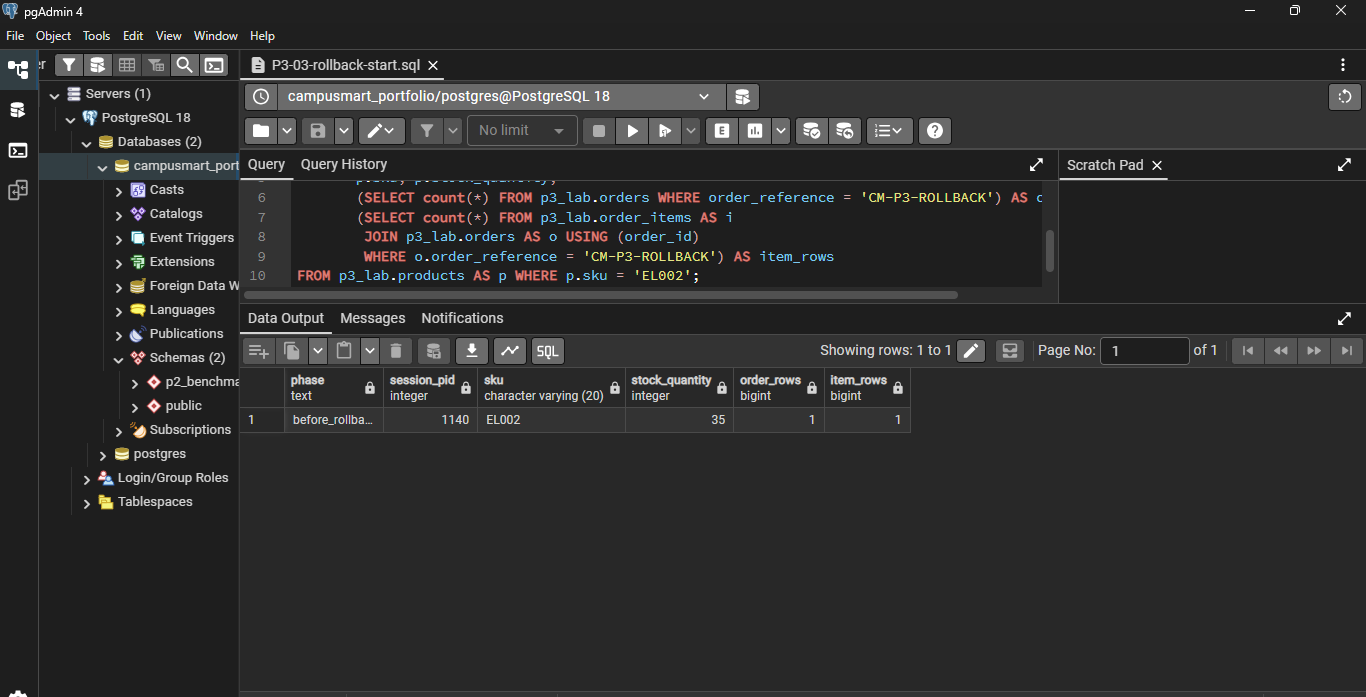
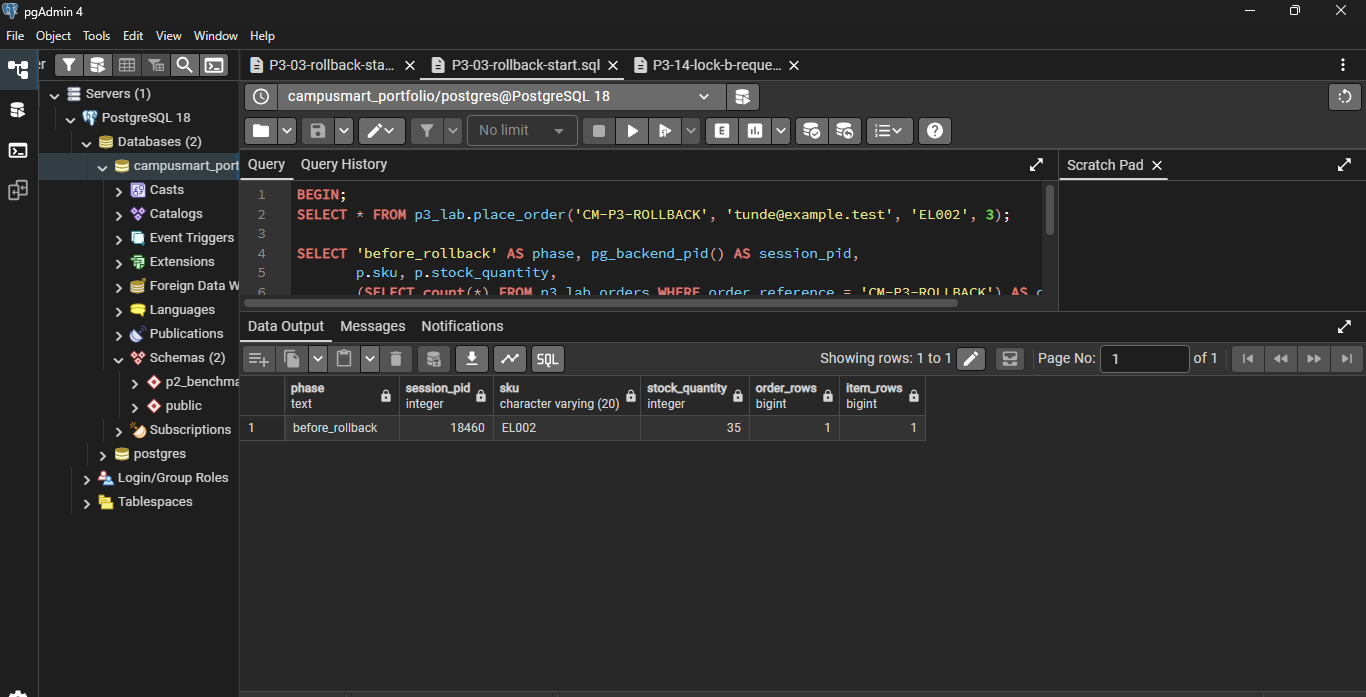
Replace rollback screenshots from the same session

Changed region(s): [[0.1537, 0.2712, 1.0, 0.6327], [0.1845, 0.0603, 0.5842, 0.1205]]

diff --git a/evidence/portfolio-3/screenshots/README.md b/evidence/portfolio-3/screenshots/README.md
@@ -1,3 +1,3 @@
 # Portfolio 3 screenshots
 
-Nineteen original pgAdmin 4 screenshots from the PostgreSQL 18.6 transaction and concurrency experiment. The [evidence index](../README.md) identifies each result and its corresponding CSV export. The rollback pair has different session PIDs; its verification limitation is recorded in the [analysis](../../../portfolio-3-transactions-concurrency/transaction-analysis.md).
+Nineteen original pgAdmin 4 screenshots from the PostgreSQL 18.6 transaction and concurrency experiment. The [evidence index](../README.md) identifies each result and its corresponding CSV export. The rollback pair uses session PID 18460 before and after ROLLBACK. The [analysis](../../../portfolio-3-transactions-concurrency/transaction-analysis.md) explains the recorded results.
